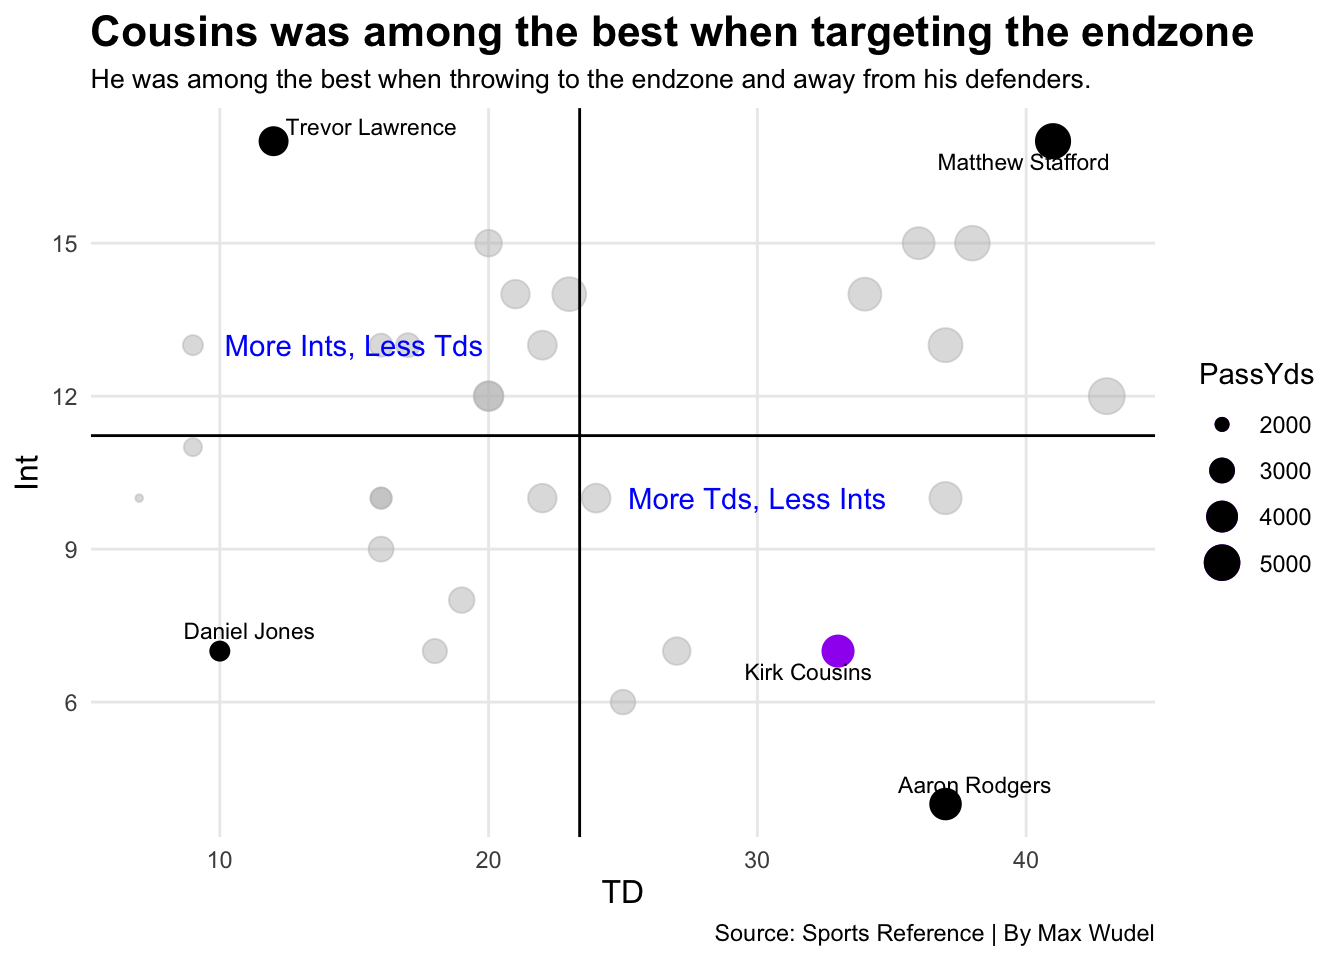
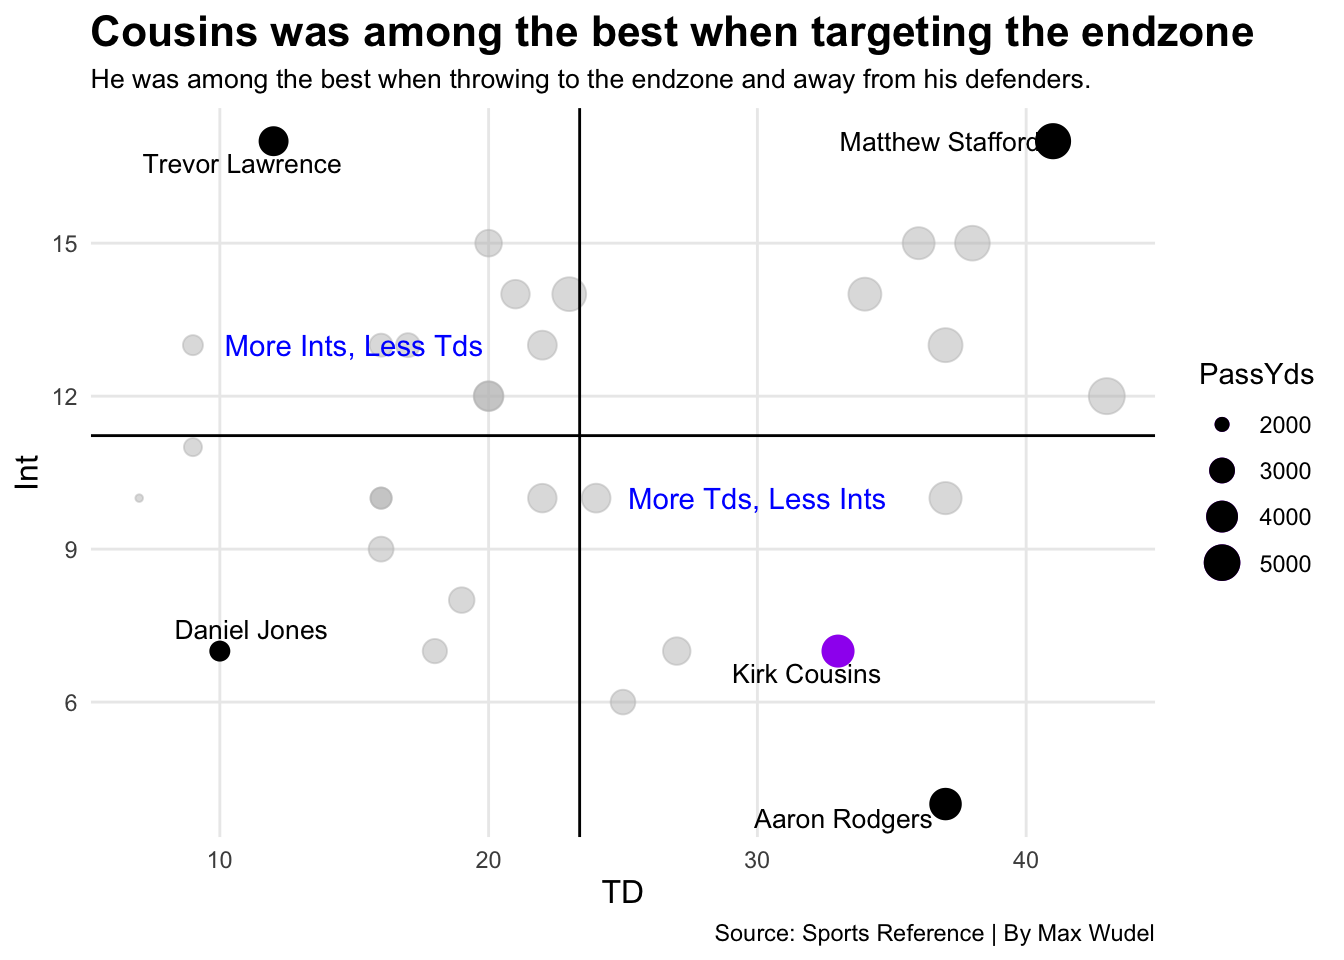
final draft

diff --git a/posts/is-kirk-cousins-an-elite-quarterback/index.html b/posts/is-kirk-cousins-an-elite-quarterback/index.html
@@ -251,8 +251,8 @@ code span.wa { color: #60a0b0; font-weight: bold; font-style: italic; } /* Warni
 <span id="cb1-35"><a href="#cb1-35" aria-hidden="true" tabindex="-1"></a>    <span class="at">colour =</span> <span class="st">"purple"</span></span>
 <span id="cb1-36"><a href="#cb1-36" aria-hidden="true" tabindex="-1"></a>    ) <span class="sc">+</span> </span>
 <span id="cb1-37"><a href="#cb1-37" aria-hidden="true" tabindex="-1"></a>  <span class="fu">labs</span>(</span>
-<span id="cb1-38"><a href="#cb1-38" aria-hidden="true" tabindex="-1"></a>    <span class="at">x=</span><span class="st">"Quarterback"</span>, </span>
-<span id="cb1-39"><a href="#cb1-39" aria-hidden="true" tabindex="-1"></a>    <span class="at">y=</span><span class="st">"2021 Passing Yards"</span>, </span>
+<span id="cb1-38"><a href="#cb1-38" aria-hidden="true" tabindex="-1"></a>    <span class="at">x=</span><span class="st">"2021 Passing Yards"</span>, </span>
+<span id="cb1-39"><a href="#cb1-39" aria-hidden="true" tabindex="-1"></a>    <span class="at">y=</span><span class="st">"Quarterback"</span>, </span>
 <span id="cb1-40"><a href="#cb1-40" aria-hidden="true" tabindex="-1"></a>    <span class="at">title=</span><span class="st">"Kirk Cousins was right there with the rest"</span>, </span>
 <span id="cb1-41"><a href="#cb1-41" aria-hidden="true" tabindex="-1"></a>    <span class="at">subtitle=</span><span class="st">"Cousins knows how to air it out and even threw for more yards than the NFL MVP, Aaron Rodgers"</span>, </span>
 <span id="cb1-42"><a href="#cb1-42" aria-hidden="true" tabindex="-1"></a>    <span class="at">caption=</span><span class="st">"Source: Sports Reference | By Max Wudel"</span></span>
@@ -300,10 +300,10 @@ code span.wa { color: #60a0b0; font-weight: bold; font-style: italic; } /* Warni
 <span id="cb2-22"><a href="#cb2-22" aria-hidden="true" tabindex="-1"></a>  <span class="fu">geom_text</span>(<span class="fu">aes</span>(<span class="at">x=</span><span class="dv">15</span>, <span class="at">y=</span><span class="dv">13</span>, <span class="at">label=</span><span class="st">"More Ints, Less Tds"</span>), <span class="at">color=</span><span class="st">"blue"</span>) <span class="sc">+</span></span>
 <span id="cb2-23"><a href="#cb2-23" aria-hidden="true" tabindex="-1"></a>  <span class="fu">geom_text_repel</span>(</span>
 <span id="cb2-24"><a href="#cb2-24" aria-hidden="true" tabindex="-1"></a>    <span class="at">data=</span>kirk21, </span>
-<span id="cb2-25"><a href="#cb2-25" aria-hidden="true" tabindex="-1"></a>    <span class="fu">aes</span>(<span class="at">x=</span>TD, <span class="at">y=</span>Int, <span class="at">label=</span>Player),<span class="at">size=</span><span class="dv">3</span>) <span class="sc">+</span></span>
+<span id="cb2-25"><a href="#cb2-25" aria-hidden="true" tabindex="-1"></a>    <span class="fu">aes</span>(<span class="at">x=</span>TD, <span class="at">y=</span>Int, <span class="at">label=</span>Player),<span class="at">size=</span><span class="fl">3.5</span>) <span class="sc">+</span></span>
 <span id="cb2-26"><a href="#cb2-26" aria-hidden="true" tabindex="-1"></a>  <span class="fu">geom_text_repel</span>(</span>
 <span id="cb2-27"><a href="#cb2-27" aria-hidden="true" tabindex="-1"></a>    <span class="at">data=</span>outliers, </span>
-<span id="cb2-28"><a href="#cb2-28" aria-hidden="true" tabindex="-1"></a>    <span class="fu">aes</span>(<span class="at">x=</span>TD, <span class="at">y=</span>Int, <span class="at">label=</span>Player),<span class="at">size=</span><span class="dv">3</span></span>
+<span id="cb2-28"><a href="#cb2-28" aria-hidden="true" tabindex="-1"></a>    <span class="fu">aes</span>(<span class="at">x=</span>TD, <span class="at">y=</span>Int, <span class="at">label=</span>Player),<span class="at">size=</span><span class="fl">3.5</span></span>
 <span id="cb2-29"><a href="#cb2-29" aria-hidden="true" tabindex="-1"></a>  ) <span class="sc">+</span></span>
 <span id="cb2-30"><a href="#cb2-30" aria-hidden="true" tabindex="-1"></a>  <span class="fu">labs</span>(<span class="at">title=</span><span class="st">"Cousins was among the best when targeting the endzone"</span>, <span class="at">subtitle=</span><span class="st">"He was among the best when throwing to the endzone and away from his defenders."</span>, <span class="at">caption=</span><span class="st">"Source: Sports Reference | By Max Wudel"</span>)  <span class="sc">+</span> <span class="fu">theme_minimal</span>() <span class="sc">+</span> </span>
 <span id="cb2-31"><a href="#cb2-31" aria-hidden="true" tabindex="-1"></a>  <span class="fu">theme</span>(</span>
@@ -371,7 +371,9 @@ code span.wa { color: #60a0b0; font-weight: bold; font-style: italic; } /* Warni
 </div>
 <p>Here we see why the elite are named as such. Players like Rodgers, Brady, Brees and Wilson have been premier quarterbacks within the NFL for years and the data represents that. While Cousins’ QBR has been on a downward trend since 2015, he has remained above and around the league’s average.</p>
 <p>Kirk Cousins has been an NFL starting quarterback for seven years and in each of those years he has had a new offensive coordinator. While he himself has been a very consistent quarterback, he has not had consistent playbooks and personnel around him.</p>
-<p>After firing their head coach and general manager, the Minnesota Vikings have hired head coach Kevin O’Connel and general manager Kwesi Adofo-Mensah</p>
+<p>After firing their head coach and general manager, the Minnesota Vikings have hired head coach Kevin O’Connell and general manager Kwesi Adofo-Mensah. The Vikings also signed Cousins to a one-year extension worth $35 million.</p>
+<p>Currently, the Vikings are 7-1 and sit comfortably atop the NFC North and at second place in the NFC. Cousins is now quarterbacking a team that finds ways to finish games as opposed to losing them. Now that the Vikings are winning games much less has been said about their starting quarterback.</p>
+<p>If the Vikings make a push this year the public perception of Kirk Cousins might finally change for the better.</p>
 
 
 

diff --git a/index.html b/index.html
@@ -151,7 +151,7 @@ ul.task-list li input[type="checkbox"] {
 <!-- margin-sidebar -->
     <div id="quarto-margin-sidebar" class="sidebar margin-sidebar">
         
-    <h5 class="quarto-listing-category-title">Categories</h5><div class="quarto-listing-category category-default"><div class="category" data-category="">All <span class="quarto-category-count">(5)</span></div><div class="category" data-category="analysis">analysis <span class="quarto-category-count">(2)</span></div><div class="category" data-category="code">code <span class="quarto-category-count">(1)</span></div><div class="category" data-category="data">data <span class="quarto-category-count">(1)</span></div><div class="category" data-category="kirkcousins">kirkcousins <span class="quarto-category-count">(1)</span></div><div class="category" data-category="lowercaseword">lowercaseword <span class="quarto-category-count">(3)</span></div><div class="category" data-category="news">news <span class="quarto-category-count">(2)</span></div></div></div>
+    <h5 class="quarto-listing-category-title">Categories</h5><div class="quarto-listing-category category-default"><div class="category" data-category="">All <span class="quarto-category-count">(2)</span></div><div class="category" data-category="analysis">analysis <span class="quarto-category-count">(1)</span></div><div class="category" data-category="data">data <span class="quarto-category-count">(1)</span></div><div class="category" data-category="kirkcousins">kirkcousins <span class="quarto-category-count">(1)</span></div></div></div>
 <!-- main -->
 <main class="content quarto-banner-title-block column-page-left" id="quarto-document-content">
 
@@ -188,48 +188,7 @@ ul.task-list li input[type="checkbox"] {
 <a href="./posts/index.html"> </a>
 </div>
 </div>
-<div class="quarto-post image-right" data-index="1" data-categories="lowercaseword,lowercaseword,lowercaseword" data-listing-date-sort="1694322000000" data-listing-file-modified-sort="1666462159654" data-listing-reading-time-sort="0.005">
-<div class="thumbnail">
-<p><a href="./posts/test_post/index.html"> <img src="./posts/test_post/image.png" class="thumnail-image"> </a></p>
-</div>
-<div class="body">
-<a href="./posts/test_post/index.html">
-<h3 class="no-anchor listing-title">
-Blog Post
-</h3>
-<div class="listing-subtitle">
-
-</div>
-</a>
-<div class="listing-categories">
-<div class="listing-category" onclick="window.quartoListingCategory('lowercaseword'); return false;">
-lowercaseword
-</div>
-<div class="listing-category" onclick="window.quartoListingCategory('lowercaseword'); return false;">
-lowercaseword
-</div>
-<div class="listing-category" onclick="window.quartoListingCategory('lowercaseword'); return false;">
-lowercaseword
-</div>
-</div>
-<a href="./posts/test_post/index.html">
-<div class="listing-description">
-
-</div>
-</a>
-</div>
-<div class="metadata">
-<a href="./posts/test_post/index.html">
-<div class="listing-date">
-Sep 10, 2023
-</div>
-<div class="listing-author">
-Max Wudel
-</div>
-</a>
-</div>
-</div>
-<div class="quarto-post image-right" data-index="2" data-categories="kirkcousins,data,analysis" data-listing-date-sort="1667710800000" data-listing-file-modified-sort="1667774270339" data-listing-reading-time-sort="6.57">
+<div class="quarto-post image-right" data-index="1" data-categories="kirkcousins,data,analysis" data-listing-date-sort="1667710800000" data-listing-file-modified-sort="1667776714912" data-listing-reading-time-sort="6.98">
 <div class="thumbnail">
 <p><a href="./posts/is-kirk-cousins-an-elite-quarterback/index.html"> <img src="./posts/is-kirk-cousins-an-elite-quarterback/image.png" class="thumnail-image"> </a></p>
 </div>
@@ -266,82 +225,6 @@ Nov 6, 2022
 </div>
 <div class="listing-author">
 Max Wudel
-</div>
-</a>
-</div>
-</div>
-<div class="quarto-post image-right" data-index="3" data-categories="news,code,analysis" data-listing-date-sort="1666328400000" data-listing-file-modified-sort="1666364656115" data-listing-reading-time-sort="0.045">
-<div class="thumbnail">
-<p><a href="./posts/post-with-code/index.html"> <img src="./posts/post-with-code/image.jpg" class="thumnail-image"> </a></p>
-</div>
-<div class="body">
-<a href="./posts/post-with-code/index.html">
-<h3 class="no-anchor listing-title">
-Post With Code
-</h3>
-<div class="listing-subtitle">
-
-</div>
-</a>
-<div class="listing-categories">
-<div class="listing-category" onclick="window.quartoListingCategory('news'); return false;">
-news
-</div>
-<div class="listing-category" onclick="window.quartoListingCategory('code'); return false;">
-code
-</div>
-<div class="listing-category" onclick="window.quartoListingCategory('analysis'); return false;">
-analysis
-</div>
-</div>
-<a href="./posts/post-with-code/index.html">
-<div class="listing-description">
-This is a post with executable code.
-</div>
-</a>
-</div>
-<div class="metadata">
-<a href="./posts/post-with-code/index.html">
-<div class="listing-date">
-Oct 21, 2022
-</div>
-<div class="listing-author">
-Harlow Malloc
-</div>
-</a>
-</div>
-</div>
-<div class="quarto-post image-right" data-index="4" data-categories="news" data-listing-date-sort="1666069200000" data-listing-file-modified-sort="1666364656112" data-listing-reading-time-sort="0.16">
-<div class="thumbnail">
-<p><a href="./posts/welcome/index.html"> <img src="./posts/welcome/thumbnail.jpg" class="thumnail-image"> </a></p>
-</div>
-<div class="body">
-<a href="./posts/welcome/index.html">
-<h3 class="no-anchor listing-title">
-Welcome To My Blog
-</h3>
-<div class="listing-subtitle">
-
-</div>
-</a>
-<div class="listing-categories">
-<div class="listing-category" onclick="window.quartoListingCategory('news'); return false;">
-news
-</div>
-</div>
-<a href="./posts/welcome/index.html">
-<div class="listing-description">
-This is the first post in a Quarto blog. Welcome!
-</div>
-</a>
-</div>
-<div class="metadata">
-<a href="./posts/welcome/index.html">
-<div class="listing-date">
-Oct 18, 2022
-</div>
-<div class="listing-author">
-Tristan O’Malley
 </div>
 </a>
 </div>
